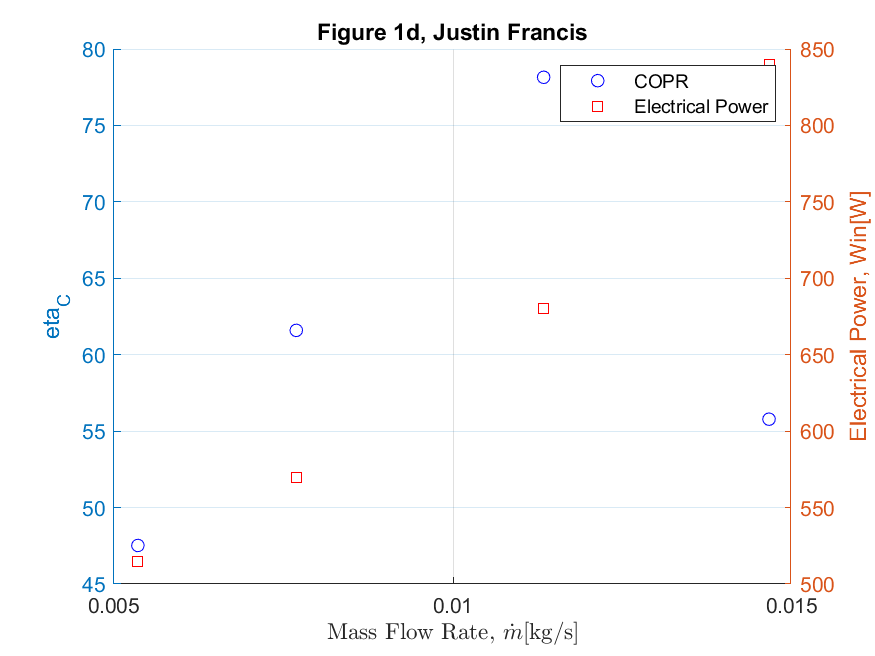
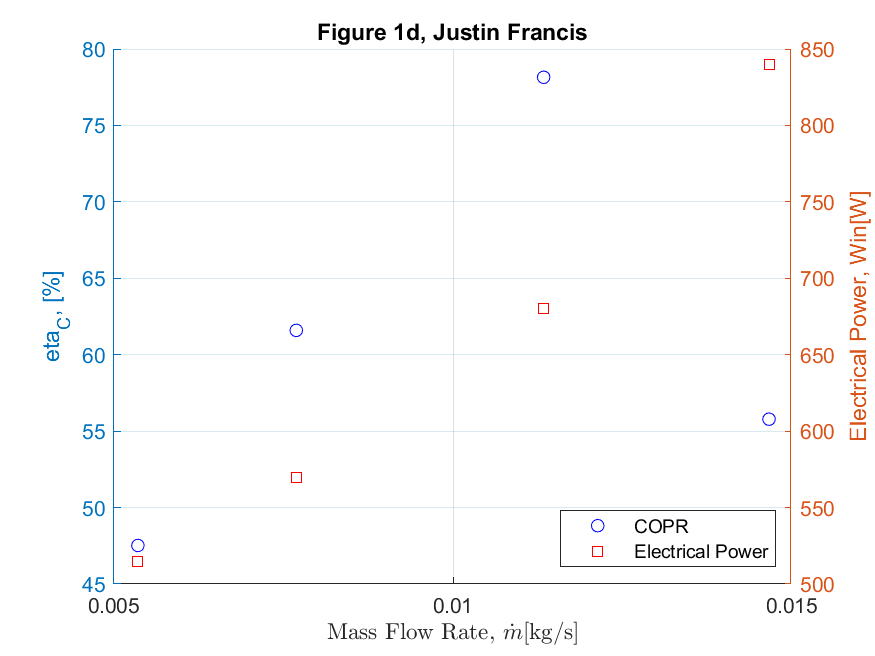
updated figure 1e

Changed region(s): [[0.7097, 0.0915, 0.8949, 0.1829], [0.7097, 0.7927, 0.8949, 0.8537], [0.0309, 0.4268, 0.0926, 0.5488]]

diff --git a/Lab8_Refrigeration/Matlab/Lab8_Refrigeration.m b/Lab8_Refrigeration/Matlab/Lab8_Refrigeration.m
@@ -98,12 +98,12 @@ etaC = ((h2s-H1).*10^-3)./(((H2-H1).*10^-3)+qloss) * 100;
 figure(1);
 hold on;
 
-plot(mdot, T3 - 273.15, 'ob');
-plot(mdot, T4 - 273.15, 'sr');
-plot(mdot, Te_avg- 273.15, 'rs','MarkerFaceColor', 'r');
-plot(mdot, Tc_avg- 273.15, 'ob', 'MarkerFaceColor', 'b');
-plot(mdot, [Tamb, Tamb, Tamb, Tamb]-273.15, 'k--');
-legend({'T3', 'T4', 'Te', 'Tc', 'Tamb'});
+plot(mdot, T3 - 273.15, 'ob', 'DisplayName', 'T3');
+plot(mdot, T4 - 273.15, 'sr', 'DisplayName', 'T4');
+plot(mdot, Te_avg- 273.15, 'rs', 'DisplayName', 'Te','MarkerFaceColor', 'r');
+plot(mdot, Tc_avg- 273.15, 'ob', 'DisplayName', 'Tc', 'MarkerFaceColor', 'b');
+plot(mdot, [Tamb, Tamb, Tamb, Tamb]-273.15, 'k--', 'DisplayName', 'Tamb');
+legend();
 grid();
 title('Figure 1a, Justin Francis');
 xlabel('Mass Flow Rate, $\dot m$[kg/s]','Interpreter','latex');
@@ -137,7 +137,7 @@ saveas(gcf, 'Fig1c.png');
 figure(4);
 hold on;
 yyaxis left;
-ylabel('eta_C');
+ylabel('eta_C, [%]');
 plot(mdot,etaC, 'bo');
 yyaxis right;
 plot(mdot,totalPower, 'rs');
@@ -145,16 +145,27 @@ grid();
 title('Figure 1d, Justin Francis');
 xlabel('Mass Flow Rate, $\dot m$[kg/s]','Interpreter','latex');
 ylabel('Electrical Power, Win[W]');
-legend({'COPR', 'Electrical Power'});
+legend({'COPR', 'Electrical Power'},'Location','southeast');
 saveas(gcf, 'Fig1d.png');
 %% 1e
 openfig('Ph_Diagram_R134a.fig');
 hold on;
 maxFlowIdx = 1;
-plot(H1(maxFlowIdx)*10^-3, P1(maxFlowIdx)*10^-3, 'ro', 'MarkerFaceColor', 'r', 'DisplayName', '1');
-plot(H2(maxFlowIdx)*10^-3, P2(maxFlowIdx)*10^-3, 'ro', 'MarkerFaceColor', 'r', 'DisplayName', '2');
-plot(H3(maxFlowIdx)*10^-3, P3(maxFlowIdx)*10^-3, 'ro', 'MarkerFaceColor', 'r', 'DisplayName', '3');
-plot(H4(maxFlowIdx)*10^-3, P4(maxFlowIdx)*10^-3, 'ro', 'MarkerFaceColor', 'r', 'DisplayName', '4');
+H = [H1(maxFlowIdx), H2(maxFlowIdx), H3(maxFlowIdx), H4(maxFlowIdx), H5(maxFlowIdx)].*10^-3;
+P = [P1(maxFlowIdx), P2(maxFlowIdx), P3(maxFlowIdx), P4(maxFlowIdx), P5(maxFlowIdx)].*10^-3;
+
+plot(H, P, 'ro-', 'MarkerFaceColor', 'r');
+% plot(H1(maxFlowIdx)*10^-3, P1(maxFlowIdx)*10^-3, 'ro', 'MarkerFaceColor', 'r', 'DisplayName', '1');
+% plot(H2(maxFlowIdx)*10^-3, P2(maxFlowIdx)*10^-3, 'ro', 'MarkerFaceColor', 'r', 'DisplayName', '2');
+% plot(H3(maxFlowIdx)*10^-3, P3(maxFlowIdx)*10^-3, 'ro', 'MarkerFaceColor', 'r', 'DisplayName', '3');
+% plot(H4(maxFlowIdx)*10^-3, P4(maxFlowIdx)*10^-3, 'ro', 'MarkerFaceColor', 'r', 'DisplayName', '4');
+% plot(H5(maxFlowIdx)*10^-3, P5(maxFlowIdx)*10^-3, 'ro', 'MarkerFaceColor', 'r', 'DisplayName', '5');
+text(H(1), P(1), '1');
+text(H(2), P(2), '2');
+text(H(3), P(3), '3');
+text(H(4), P(4), '4');
+text(H(5), P(5), '5');
+
 saveas(gcf, 'Fig1e.png');
 
 
